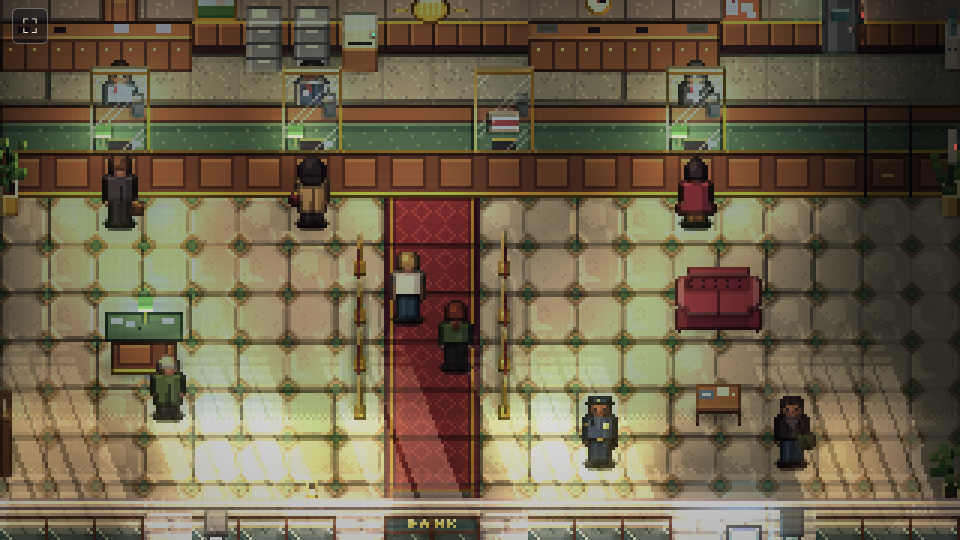
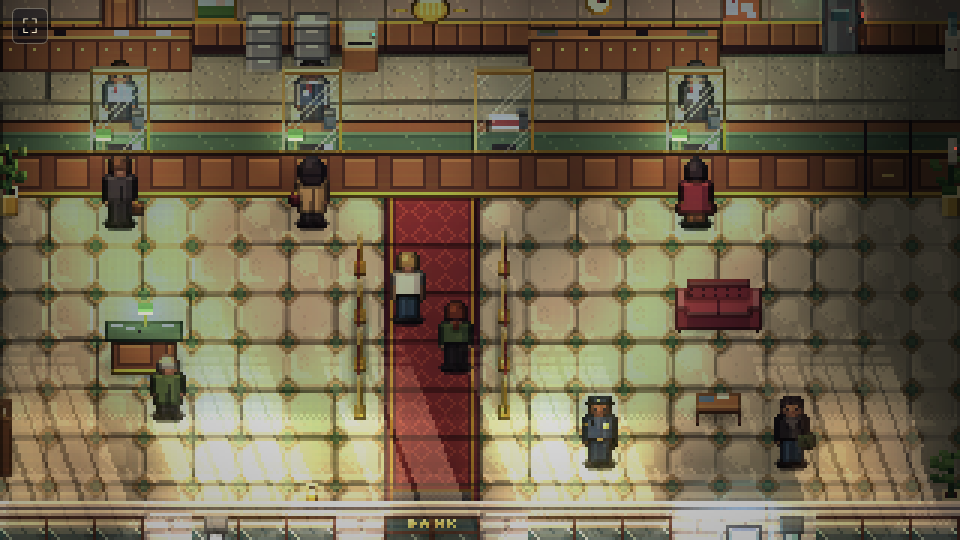
Draw the tops of things at two thirds of their depth
Floor tiles stay square and heights full scale, but tops are now drawn at
TOP_DEPTH (2/3) of their real depth, measured back from the front edge.
With tops at full depth a long object pointing at the camera looked tall:
the van was 95px nose-on against 54px side-on; now it is 73px against
46px and reads as lying down.

The rule lives in space.ts and is applied by the hand-drawn View, the
box-model renderer and the wall caps (now 11px, the shop front's coping
3px). Things flat on the floor keep their full depth, and the queue
rails are drawn upright so each post stays on its tile.

Claude-Session: https://claude.ai/code/session_01LiRSX9QW4LERJSxq7zdRb3

diff --git a/src/art/bank/model.ts b/src/art/bank/model.ts
@@ -1,4 +1,4 @@
-import type { Facing, Size } from '../../level/space';
+import { TOP_DEPTH, type Facing, type Size } from '../../level/space';
 import { PixelBitmap } from '../PixelBitmap';
 
 /**
@@ -35,7 +35,11 @@ export interface Part {
 /** A light in the model's frame (z is its height above the floor). */
 export interface ModelLight { x: number; y: number; z: number; radius: number; color: number; intensity: number }
 
-export interface Model { parts: Part[]; lights?: ModelLight[] }
+/**
+ * `upright` models (a row of posts, a rope) are drawn without foreshortening their tops: they have no top worth
+ * showing, and each post has to stay on its own floor position.
+ */
+export interface Model { parts: Part[]; lights?: ModelLight[]; upright?: boolean }
 
 /** A light a prop gives off, in pixels relative to the prop bitmap's top-left corner. */
 export interface PropLight { x: number; y: number; radius: number; color: number; intensity: number }
@@ -87,6 +91,11 @@ interface Write { x: number; y: number; key: number; color: number; height: numb
 export function renderModel(model: Model, size: Size, facing: Facing): PropArt {
     const writes: Write[] = [];
     const face = VISIBLE_FACE[facing];
+    const turnedSize = facing === 'east' || facing === 'west' ? { w: size.d, d: size.w } : size;
+    // Tops are foreshortened back from the front edge (see TOP_DEPTH); something flat on the floor is the floor and is not.
+    const flat = model.parts.every(p => p.z === 0 && p.h === 0);
+    const k = flat || model.upright ? 1 : TOP_DEPTH, depthRows = Math.round(turnedSize.d * k);
+    const row = (worldY: number, z: number) => depthRows - Math.round((turnedSize.d - worldY) * k) - z;
     for (const part of model.parts) {
         const box = turnPart(part, size, facing);
         const top = part.z + part.h;
@@ -97,7 +106,7 @@ export function renderModel(model: Model, size: Size, facing: Facing): PropArt {
             const [lx, ly] = localPixel(box.x + i, box.y + j, size, facing);
             const u = lx - part.x, v = ly - part.y;
             const c = sample(part.top, u, v);
-            if (c !== null) writes.push({ x: box.x + i, y: box.y + j - top, key: box.y + j + top, color: c, height: bump.top, glow: !!part.glow, alpha: alphaAt(u, v) });
+            if (c !== null) writes.push({ x: box.x + i, y: row(box.y + j, top), key: box.y + j + top, color: c, height: bump.top, glow: !!part.glow, alpha: alphaAt(u, v) });
         }
         // The face pointing at the camera, on the part's south edge, from its top down to its bottom.
         const tex = part[face] ?? part.sides ?? part.front;
@@ -105,16 +114,15 @@ export function renderModel(model: Model, size: Size, facing: Facing): PropArt {
         for (let k = 1; k <= part.h; k++) for (let i = 0; i < box.w; i++) {
             const z = part.z + k, v = part.h - k;
             const c = sample(tex, i, v);
-            if (c !== null) writes.push({ x: box.x + i, y: south - z, key: south + z, color: c, height: bump.face, glow: !!part.glow, alpha: alphaAt(i, v) });
+            if (c !== null) writes.push({ x: box.x + i, y: row(south, z), key: south + z, color: c, height: bump.face, glow: !!part.glow, alpha: alphaAt(i, v) });
         }
     }
     if (!writes.length) throw new Error('A model drew nothing');
 
-    const turnedSize = facing === 'east' || facing === 'west' ? { w: size.d, d: size.w } : size;
     const minX = Math.min(0, ...writes.map(w => w.x)), maxX = Math.max(turnedSize.w - 1, ...writes.map(w => w.x));
     const minY = Math.min(...writes.map(w => w.y)), maxY = Math.max(...writes.map(w => w.y));
-    if (maxY > turnedSize.d - 1) throw new Error(`A model reaches ${maxY - turnedSize.d + 1}px in front of its footprint at floor level`);
-    const lit = new PixelBitmap(maxX - minX + 1, turnedSize.d - minY);
+    if (maxY > depthRows - 1) throw new Error(`A model reaches ${maxY - depthRows + 1}px in front of its footprint at floor level`);
+    const lit = new PixelBitmap(maxX - minX + 1, depthRows - minY);
     const glow = new PixelBitmap(lit.width, lit.height);
     const depth = new Float32Array(lit.width * lit.height).fill(-Infinity);
     const at = (w: Write) => [w.x - minX, w.y - minY] as const;
@@ -137,7 +145,7 @@ export function renderModel(model: Model, size: Size, facing: Facing): PropArt {
 
     const lights = (model.lights ?? []).map(l => {
         const [wx, wy] = turnPoint(l.x, l.y, size, facing);
-        return { x: wx - minX, y: wy - l.z - minY, radius: l.radius, color: l.color, intensity: l.intensity };
+        return { x: wx - minX, y: depthRows - (turnedSize.d - wy) * k - l.z - minY, radius: l.radius, color: l.color, intensity: l.intensity };
     });
     return { lit, glow, lights, originX: -minX };
 }

diff --git a/src/art/bank/walls.ts b/src/art/bank/walls.ts
@@ -2,10 +2,13 @@ import { TILE } from '../../level/level';
 import { PAL, mix, step } from '../palette';
 import { PixelBitmap } from '../PixelBitmap';
 import { mulberry32 } from '../random';
-import { THIN_WALL, WALL_HEIGHT } from '../../level/space';
+import { THIN_WALL, topRows, WALL_HEIGHT } from '../../level/space';
 
 /** A wall block is the wall's cap (one tile deep) over its face; see `space.ts` for the heights. */
-export const BLOCK_HEIGHT = TILE + WALL_HEIGHT;
+/** The cap is the top of a wall a tile deep, drawn foreshortened like every top. */
+const CAP = topRows(TILE);
+const THIN_CAP = topRows(THIN_WALL);
+export const BLOCK_HEIGHT = CAP + WALL_HEIGHT;
 
 export const WALL_BLOCK_NAMES = ['cap', 'sideDoor', 'face', 'doorWood', 'doorKeycard', 'pier', 'window', 'doorGlassLeft', 'doorGlassRight', 'atm'] as const;
 export type WallBlockName = typeof WALL_BLOCK_NAMES[number];
@@ -17,13 +20,15 @@ const F = WALL_HEIGHT;
 
 /** Interior walls are solid masonry: a dark plaster cap the full depth of the tile. */
 const solidCap: Painter = (cap, _face, rand) => {
-    for (let y = 0; y < TILE; y++) for (let x = 0; x < TILE; x++) cap(x, y, y === TILE - 1 ? PAL.plaster[2] : rand() > 0.9 ? PAL.plaster[1] : PAL.plaster[0], 1);
+    for (let y = 0; y < CAP; y++) for (let x = 0; x < TILE; x++) cap(x, y, y === CAP - 1 ? PAL.plaster[2] : rand() > 0.9 ? PAL.plaster[1] : PAL.plaster[0], 1);
 };
 
 /** The shop front is a thin wall: a limestone coping along its street edge, the rest of the tile is floor behind it. */
 const thinCap: Painter = (cap) => {
     const coping = [PAL.limestone[2], PAL.limestone[5], PAL.limestone[4], PAL.limestone[1]];
-    for (let x = 0; x < TILE; x++) coping.forEach((c, i) => cap(x, TILE - THIN_WALL + i, c, i === THIN_WALL - 1 ? 0.9 : 1));
+    // The coping's rows, lit edge last: as many as the thin wall's foreshortened top takes.
+    const rows = coping.slice(coping.length - THIN_CAP);
+    for (let x = 0; x < TILE; x++) rows.forEach((c, i) => cap(x, CAP - THIN_CAP + i, c, i === THIN_CAP - 1 ? 0.9 : 1));
 };
 
 /** Interior face: plaster above a walnut wainscot with a brass chair rail and a dark skirting board. */
@@ -70,8 +75,8 @@ const doorKeycard: Painter = (cap, face, rand) => {
 /** A door in a side wall, seen from above: a gap in the cap with the door leaf standing open against the jamb. */
 const sideDoor: Painter = (cap, face, rand) => {
     solidCap(cap, face, rand);
-    for (let y = 2; y < 14; y++) for (let x = 3; x < 13; x++) cap(x, y, step(PAL.marbleCream, 1), 0.3);
-    for (let y = 2; y < 14; y++) { cap(3, y, PAL.walnut[5], 1); cap(4, y, PAL.walnut[3], 0.95); }
+    for (let y = 1; y < CAP - 1; y++) for (let x = 3; x < 13; x++) cap(x, y, step(PAL.marbleCream, 1), 0.3);
+    for (let y = 1; y < CAP - 1; y++) { cap(3, y, PAL.walnut[5], 1); cap(4, y, PAL.walnut[3], 0.95); }
 };
 
 /** Limestone in courses with a darker plinth; the building's face to the street. */
@@ -161,7 +166,7 @@ export function bankWalls(): PixelBitmap {
     WALL_BLOCK_NAMES.forEach((name, i) => {
         const ox = i * TILE;
         const cap = (x: number, y: number, c: number, h: number, a = 255) => bitmap.set(ox + x, y, c, h, a);
-        const face = (x: number, y: number, c: number, h: number, a = 255) => bitmap.set(ox + x, TILE + y, c, h, a);
+        const face = (x: number, y: number, c: number, h: number, a = 255) => bitmap.set(ox + x, CAP + y, c, h, a);
         PAINTERS[name](cap, face, rand);
     });
     return bitmap;

diff --git a/src/art/bank/view.ts b/src/art/bank/view.ts
@@ -1,37 +1,48 @@
 import { deepen } from '../palette';
 import { PixelBitmap } from '../PixelBitmap';
+import { TOP_DEPTH } from '../../level/space';
 import type { PropArt } from './model';
 
 export type Vec3Like = readonly [number, number, number];
 
 /**
  * A canvas for drawing one view of a prop by hand, in the projection the world uses. The view covers the prop's turned
- * footprint (`w` across the screen, `d` into it) and height `h`: a point at footprint pixel (x, y) and height z lands at
- * bitmap (x + margin, y - z + h), so the bottom edge is the footprint's south edge at floor level. Every pixel is drawn
+ * footprint (`w` across the screen, `d` into it) and height `h`. Depth is foreshortened to `depthScale` of itself (by
+ * default the world's `TOP_DEPTH`) measured back from the front edge, so the bottom edge is the footprint's south edge at
+ * floor level and a point (x, y) at height z lands `(d - y) * depthScale + z` rows above it. Every pixel is drawn
  * deliberately; the projection only says where a surface is, not what it looks like.
  */
 export class View {
     readonly lit: PixelBitmap;
     readonly glow: PixelBitmap;
 
-    constructor(readonly w: number, readonly d: number, readonly h: number, readonly margin = 0) {
-        this.lit = new PixelBitmap(w + margin * 2, d + h);
+    /** Rows the footprint's depth takes on screen once tops are foreshortened by `depthScale`. */
+    private readonly depthRows: number;
+
+    constructor(readonly w: number, readonly d: number, readonly h: number, readonly margin = 0, readonly depthScale = TOP_DEPTH) {
+        this.depthRows = Math.round(d * depthScale);
+        this.lit = new PixelBitmap(w + margin * 2, this.depthRows + h);
         this.glow = new PixelBitmap(this.lit.width, this.lit.height);
     }
 
     /** A pixel of a top (upward) surface: footprint pixel (x, y) at height z. */
     top(x: number, y: number, z: number, color: number, normal: Vec3Like = NORMAL.top): void {
-        this.put(x, y - z, color, normal);
+        this.put(x, this.row(y, z), color, normal);
+    }
+
+    /** Screen row (before the height offset) of a point `y` into the footprint at height z; depth is measured from the front edge. */
+    private row(y: number, z: number): number {
+        return this.depthRows - Math.round((this.d - y) * this.depthScale) - z;
     }
 
     /** A pixel of a south-facing surface standing on line `y` (by default the footprint's south edge): column x, height pixel z (1 is the lowest). */
     face(x: number, z: number, color: number, y = this.d, normal: Vec3Like = NORMAL.face): void {
-        this.put(x, y - z, color, normal);
+        this.put(x, this.row(y, z), color, normal);
     }
 
     /** An unlit pixel (a lamp, a screen) at the same place `face` would put it. */
     glowFace(x: number, z: number, color: number, y = this.d): void {
-        const [bx, by] = [x + this.margin, y - z + this.h];
+        const [bx, by] = [x + this.margin, this.row(y, z) + this.h];
         this.glow.set(bx, by, color, 1);
         this.lit.clear(bx, by);
     }

diff --git a/src/art/bank/van.ts b/src/art/bank/van.ts
@@ -1,4 +1,4 @@
-import { px, type Facing, type Size } from '../../level/space';
+import { px, TOP_DEPTH, type Facing, type Size } from '../../level/space';
 import { mix, PAL } from '../palette';
 import type { PropArt } from './model';
 import { NORMAL, View } from './view';
@@ -95,8 +95,8 @@ function sidePanel(z: number, zTop: number): number {
  * Looking at the van's side: its right side (with the sliding door) when it faces east, nose to the screen's right; its
  * left side when it faces west, nose to the left.
  */
-function side(shape: Shape, right: boolean): View {
-    const v = new View(shape.length, shape.width, shape.height);
+function side(shape: Shape, right: boolean, k: number): View {
+    const v = new View(shape.length, shape.width, shape.height, 0, k);
     const X = (y: number) => (right ? y : shape.length - 1 - y);
     const toNose = right ? NORMAL.right : NORMAL.left;
     // The upper surfaces, seen across the van's width.
@@ -155,8 +155,8 @@ function side(shape: Shape, right: boolean): View {
 }
 
 /** Looking at the nose: roof, windscreen and bonnet from above, then the front with its grille and lamps. */
-function front(shape: Shape): View {
-    const v = new View(shape.width, shape.length, shape.height, 2);
+function front(shape: Shape, k: number): View {
+    const v = new View(shape.width, shape.length, shape.height, 2, k);
     const W = shape.width, mid = Math.floor(W / 2);
     for (let y = 0; y < shape.length; y++) {
         const z = shape.top(y), region = shape.region(y);
@@ -199,8 +199,8 @@ function front(shape: Shape): View {
 }
 
 /** Looking at the back: a sliver of bonnet beyond the roof, the long roof, then the rear doors. */
-function rear(shape: Shape): View {
-    const v = new View(shape.width, shape.length, shape.height, 2);
+function rear(shape: Shape, k: number): View {
+    const v = new View(shape.width, shape.length, shape.height, 2, k);
     const W = shape.width, mid = Math.floor(W / 2), L = shape.length;
     // Far to near: world row 0 is the nose. The windscreen faces away from the camera, so only bonnet and roof show.
     for (let row = 0; row < L; row++) {
@@ -234,12 +234,12 @@ function rear(shape: Shape): View {
 }
 
 /** The van seen facing `facing` (its nose's direction); `s` is its catalog size in its own frame. */
-export function vanArt(s: Size, facing: Facing): PropArt {
+export function vanArt(s: Size, facing: Facing, depthScale = TOP_DEPTH): PropArt {
     const shape = new Shape(s);
     switch (facing) {
-        case 'south': return front(shape).art();
-        case 'north': return rear(shape).art();
-        case 'east': return side(shape, true).art();
-        case 'west': return side(shape, false).art();
+        case 'south': return front(shape, depthScale).art();
+        case 'north': return rear(shape, depthScale).art();
+        case 'east': return side(shape, true, depthScale).art();
+        case 'west': return side(shape, false, depthScale).art();
     }
 }

diff --git a/src/level/space.ts b/src/level/space.ts
@@ -4,14 +4,23 @@ import { TILE } from './level';
  * The world's 3D scale and how objects occupy it. One pixel is about 8cm in every direction, so a tile is about 1.3m,
  * a person about 1.75m (22px), and full walls are cut away at about 1.9m (24px), just above head height.
  *
- * The camera is a ¾ view with no foreshortening: a point at floor position (x, y) and height z above the floor is drawn
- * at screen (x, y - z). A box therefore shows its top surface (as deep on screen as the box is deep) above its front
- * face (as tall on screen as the box is tall).
+ * The camera is a ¾ view: a point at floor position (x, y) and height z above the floor is drawn at screen (x, y - z),
+ * so floor tiles are square and heights are drawn at full scale. The tops of things standing on the floor are the one
+ * exception: they are drawn at `TOP_DEPTH` of their real depth (see `topRows`), so a box shows a shallower top over its
+ * full-height front face. This is the familiar pixel-art cheat for a camera a little lower than 45°: a long thing that
+ * points at the camera (a van, a bench) still looks longer than it does side-on, but reads as lying down rather than
+ * standing up.
  */
 export const PX_PER_METRE = 12.5;
 export const px = (metres: number): number => Math.round(metres * PX_PER_METRE);
 
 export const WALL_HEIGHT = px(1.92);
+
+/** How deep the top of an object is drawn, as a share of its real depth. Floor-level things keep their full depth. */
+export const TOP_DEPTH = 2 / 3;
+
+/** Screen rows the top of something `depth` pixels deep takes. */
+export const topRows = (depth: number): number => Math.round(depth * TOP_DEPTH);
 /** The shop front is a thin wall: only this much of its tile, along the street edge, is wall. */
 export const THIN_WALL = px(0.3);
 

diff --git a/tests/model.test.ts b/tests/model.test.ts
@@ -1,6 +1,6 @@
 import { describe, expect, it } from 'vitest';
 import { renderModel, type Model } from '../src/art/bank/model';
-import type { Size } from '../src/level/space';
+import { topRows, type Size } from '../src/level/space';
 
 const RED = 0xff0000, GREEN = 0x00ff00, BLUE = 0x0000ff, YELLOW = 0xffff00, GREY = 0x808080;
 const size: Size = { w: 6, d: 3, h: 4 };
@@ -17,12 +17,17 @@ describe('rendering a model', () => {
         }
     });
 
-    it('stacks the top surface (as deep as the box) over the face (as tall as the box)', () => {
+    it('stacks the foreshortened top surface over the face (as tall as the box)', () => {
         const art = renderModel(crate, size, 'south');
-        expect(art.lit.height).toBe(size.d + size.h);
-        expect(art.lit.color(0, size.d - 1)).toBe(GREY);
-        expect(art.lit.color(0, size.d)).toBe(RED);
-        expect(renderModel(crate, size, 'east').lit.height).toBe(size.w + size.h);
+        expect(art.lit.height).toBe(topRows(size.d) + size.h);
+        expect(art.lit.color(0, topRows(size.d) - 1)).toBe(GREY);
+        expect(art.lit.color(0, topRows(size.d))).toBe(RED);
+        expect(renderModel(crate, size, 'east').lit.height).toBe(topRows(size.w) + size.h);
+    });
+
+    it('keeps something flat on the floor at its full depth', () => {
+        const mat: Model = { parts: [{ x: 0, y: 0, z: 0, w: 6, d: 6, h: 0, top: GREY }] };
+        expect(renderModel(mat, { w: 6, d: 6, h: 0 }, 'south').lit.height).toBe(6);
     });
 
     it('hides what is behind a nearer part, whichever way the model faces', () => {

diff --git a/src/scenes/LobbyScene.ts b/src/scenes/LobbyScene.ts
@@ -9,7 +9,7 @@ import { bayer4, mulberry32, valueNoise } from '../art/random';
 import { propBox, propSize } from '../level/catalog';
 import { TILE } from '../level/level';
 import { isStructure, LOBBY_PEOPLE, LOBBY_PROPS, LOBBY_TILES, parseLobby, type LobbyTile } from '../level/lobby';
-import { baseLine, PERSON_SIZE, place, THIN_WALL, WALL_HEIGHT, type Box } from '../level/space';
+import { baseLine, PERSON_SIZE, place, THIN_WALL, topRows, WALL_HEIGHT, type Box } from '../level/space';
 
 const KEY = { tiles: 'bank-tiles', walls: 'bank-walls', shade: 'lobby-shade', glow: 'lobby-glow', exposure: 'lobby-exposure', clouds: 'lobby-clouds', mote: 'lobby-mote', shadow: 'person-shadow' } as const;
 
@@ -204,7 +204,7 @@ export class LobbyScene extends Phaser.Scene {
         const facadeRow = this.tiles.findIndex(row => row.includes('g'));
         if (!this.textures.exists(KEY.clouds)) this.textures.addCanvas(KEY.clouds, cloudCanvas(128));
         // Slow cloud shadows drifting over the street and the shop front, cut off at the top of the façade.
-        const outsideTop = (facadeRow + 1) * TILE - WALL_HEIGHT - THIN_WALL;
+        const outsideTop = (facadeRow + 1) * TILE - WALL_HEIGHT - topRows(THIN_WALL);
         this.clouds = this.add.tileSprite(0, outsideTop, this.mapWidth, this.mapHeight - outsideTop, KEY.clouds)
             .setOrigin(0, 0).setDepth(DEPTH.clouds).setBlendMode(Phaser.BlendModes.MULTIPLY);
 

diff --git a/src/art/bank/lightmap.ts b/src/art/bank/lightmap.ts
@@ -1,7 +1,7 @@
 import { TILE } from '../../level/level';
 import { isStructure, type LobbyTile } from '../../level/lobby';
 import { bayer4 } from '../random';
-import { THIN_WALL, WALL_HEIGHT } from '../../level/space';
+import { THIN_WALL, topRows, WALL_HEIGHT } from '../../level/space';
 
 /** Something standing on the floor: it darkens the floor under it and blocks sun shafts up to its height. */
 export interface Occluder { x: number; y: number; w: number; h: number; height: number }
@@ -121,7 +121,7 @@ export function buildLightMaps(tiles: LobbyTile[][], occluders: Occluder[], cast
 
         let r = 1;
         // Everything above the top of the shop front is under the roof; the façade itself faces the sunny street.
-        if (facadeRow > 0 && y < facadeY + TILE - WALL_HEIGHT - THIN_WALL) {
+        if (facadeRow > 0 && y < facadeY + TILE - WALL_HEIGHT - topRows(THIN_WALL)) {
             const near = Math.max(0, 1 - (facadeY - y) / WINDOW_REACH);
             r = ROOF_DEEP + (ROOF_WINDOW - ROOF_DEEP) * band(near, 3, x, y);
         }

diff --git a/tests/van.test.ts b/tests/van.test.ts
@@ -1,7 +1,7 @@
 import { describe, expect, it } from 'vitest';
 import { vanArt } from '../src/art/bank/van';
 import { propSize } from '../src/level/catalog';
-import { FACINGS, turned } from '../src/level/space';
+import { FACINGS, topRows, turned } from '../src/level/space';
 
 describe('the hand-drawn van', () => {
     const size = propSize({ kind: 'van', tx: 0, ty: 0 });
@@ -12,7 +12,7 @@ describe('the hand-drawn van', () => {
             const footprint = turned(size, facing);
             // Wing mirrors may stand out past the sides; the body spans the footprint and stands on its south edge.
             expect(art.lit.width - art.originX * 2, facing).toBe(footprint.w);
-            expect(art.lit.height, facing).toBe(footprint.d + size.h);
+            expect(art.lit.height, facing).toBe(topRows(footprint.d) + size.h);
             const bottom = art.lit.height - 1;
             expect(art.lit.opaque(art.originX + 1, bottom) || art.lit.opaque(art.originX + Math.floor(footprint.w / 2), bottom), facing).toBe(true);
         }

diff --git a/src/art/bank/props.ts b/src/art/bank/props.ts
@@ -255,7 +255,7 @@ function queueRail(p: Extract<LobbyProp, { kind: 'queueRail' }>, s: Size): Model
             parts.push(box(x + t, cy, s.h - 4 - sag, 1, 1, 1, { top: c, sides: PAL.carpet[2] }));
         }
     }
-    return { parts };
+    return { parts, upright: true };
 }
 
 function mat(s: Size): Model {

diff --git a/docs/design/visual-preview.md b/docs/design/visual-preview.md
@@ -23,6 +23,11 @@ is agreed.
    drawn by hand as pixel art on a `View` that knows the projection, from one set of measurements per object so the
    views agree (the van in `src/art/bank/van.ts` is the first; simpler furniture is still rendered from box models
    until it is redrawn). `/?scene=props` shows them all. ([sheet](../pixel-art/examples/props-four-facings.png): south, east, north, west.)
+   Floor tiles are square and heights are drawn at full scale, but the **tops of things are drawn at 2/3 of their
+   depth** (`TOP_DEPTH`), the usual cheat for a camera a little lower than 45°: a van nose-on is then 62px tall
+   rather than 95px against 54px side-on, so it reads as lying down
+   ([comparison](../pixel-art/examples/van-depth-compare.png): full depth on top, half below; we use two thirds).
+   Things flat on the floor keep their full depth, and rows of posts keep each post on its floor position.
 3. **Muted, hue-shifted ramps** (`src/art/palette.ts`). Darks drift cool, lights warm, the lightest steps desaturate.
    No pure black: the darkest colour is a cool ink. One ramp per material, so greens stay green.
 4. **Zones are drawn into the floor** (§8.1): cream marble and a red runner for Public, linoleum for Staff; concrete and

diff --git a/CLAUDE.md b/CLAUDE.md
@@ -34,7 +34,9 @@ Top-down 2D pixel-art stealth game. Phaser 4 + TypeScript + Vite, shipped as an 
   `render.maxLights` is 32 – lights beyond that are silently dropped, so raise it if a scene gets busier.
 - All art is generated in `src/art` from palette grids, with a height per colour that becomes the normal map. Real art
   can replace it by loading PNGs plus `-n.png` normal maps in a preload scene and keeping the `TEX` keys.
-- Every object is a box at a real scale (`src/level/space.ts`: 1px ≈ 8cm, people 1.75m, walls cut at 1.9m). Before
+- Every object is a box at a real scale (`src/level/space.ts`: 1px ≈ 8cm, people 1.75m, walls cut at 1.9m). Floor tiles
+  are square and heights full scale, but the tops of things are drawn at `TOP_DEPTH` (2/3) of their depth, so long
+  things pointing at the camera don't look tall; `View` and the wall caps apply it, draw with them. Before
   drawing a new item, give it a `CATALOG` entry in `src/level/catalog.ts`: real width, depth and height, elevation if
   mounted, where it stands (centred, against which edge, between two tiles) and which way it faces. Every prop needs
   all four facings, each **drawn by hand as pixel art** on a `View` (`src/art/bank/view.ts`), which knows the
